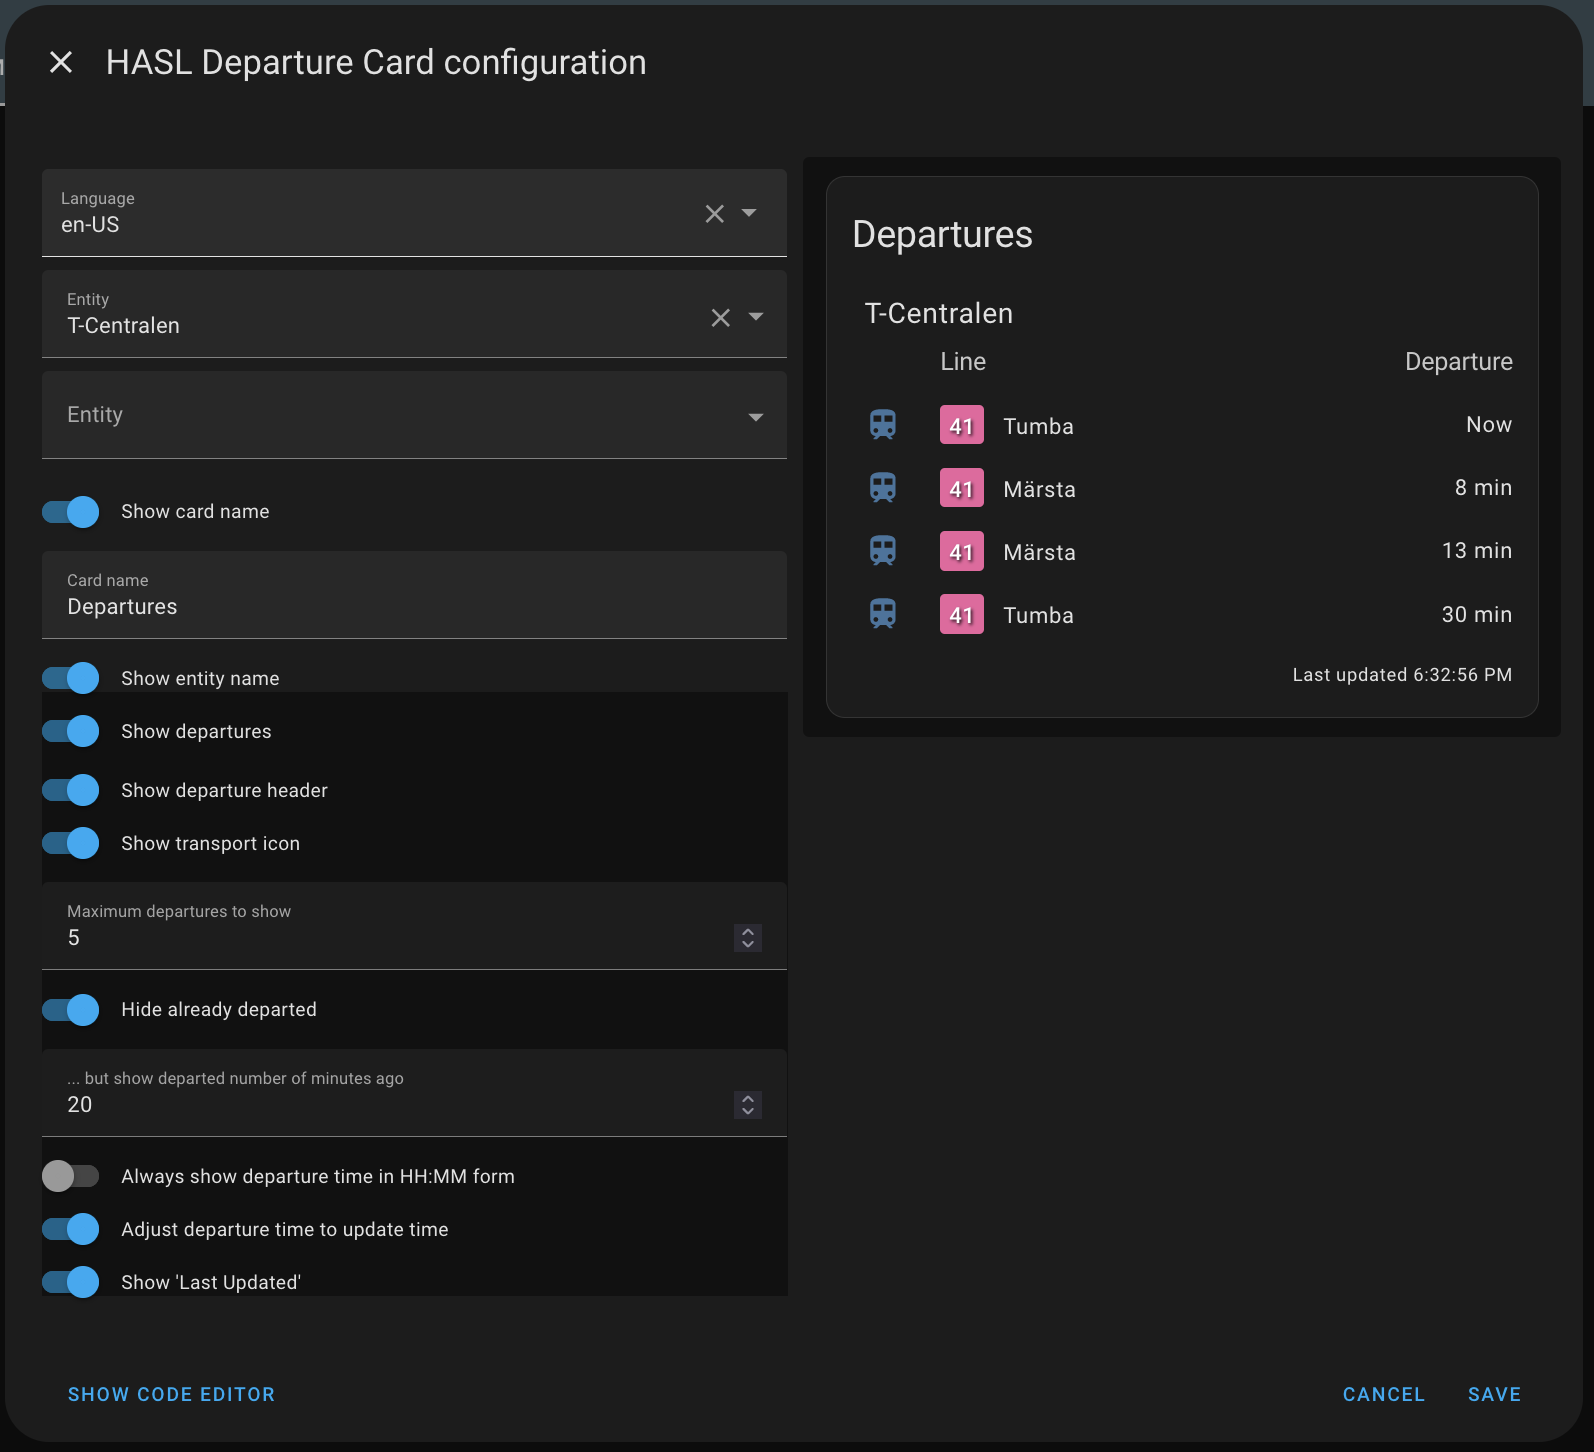
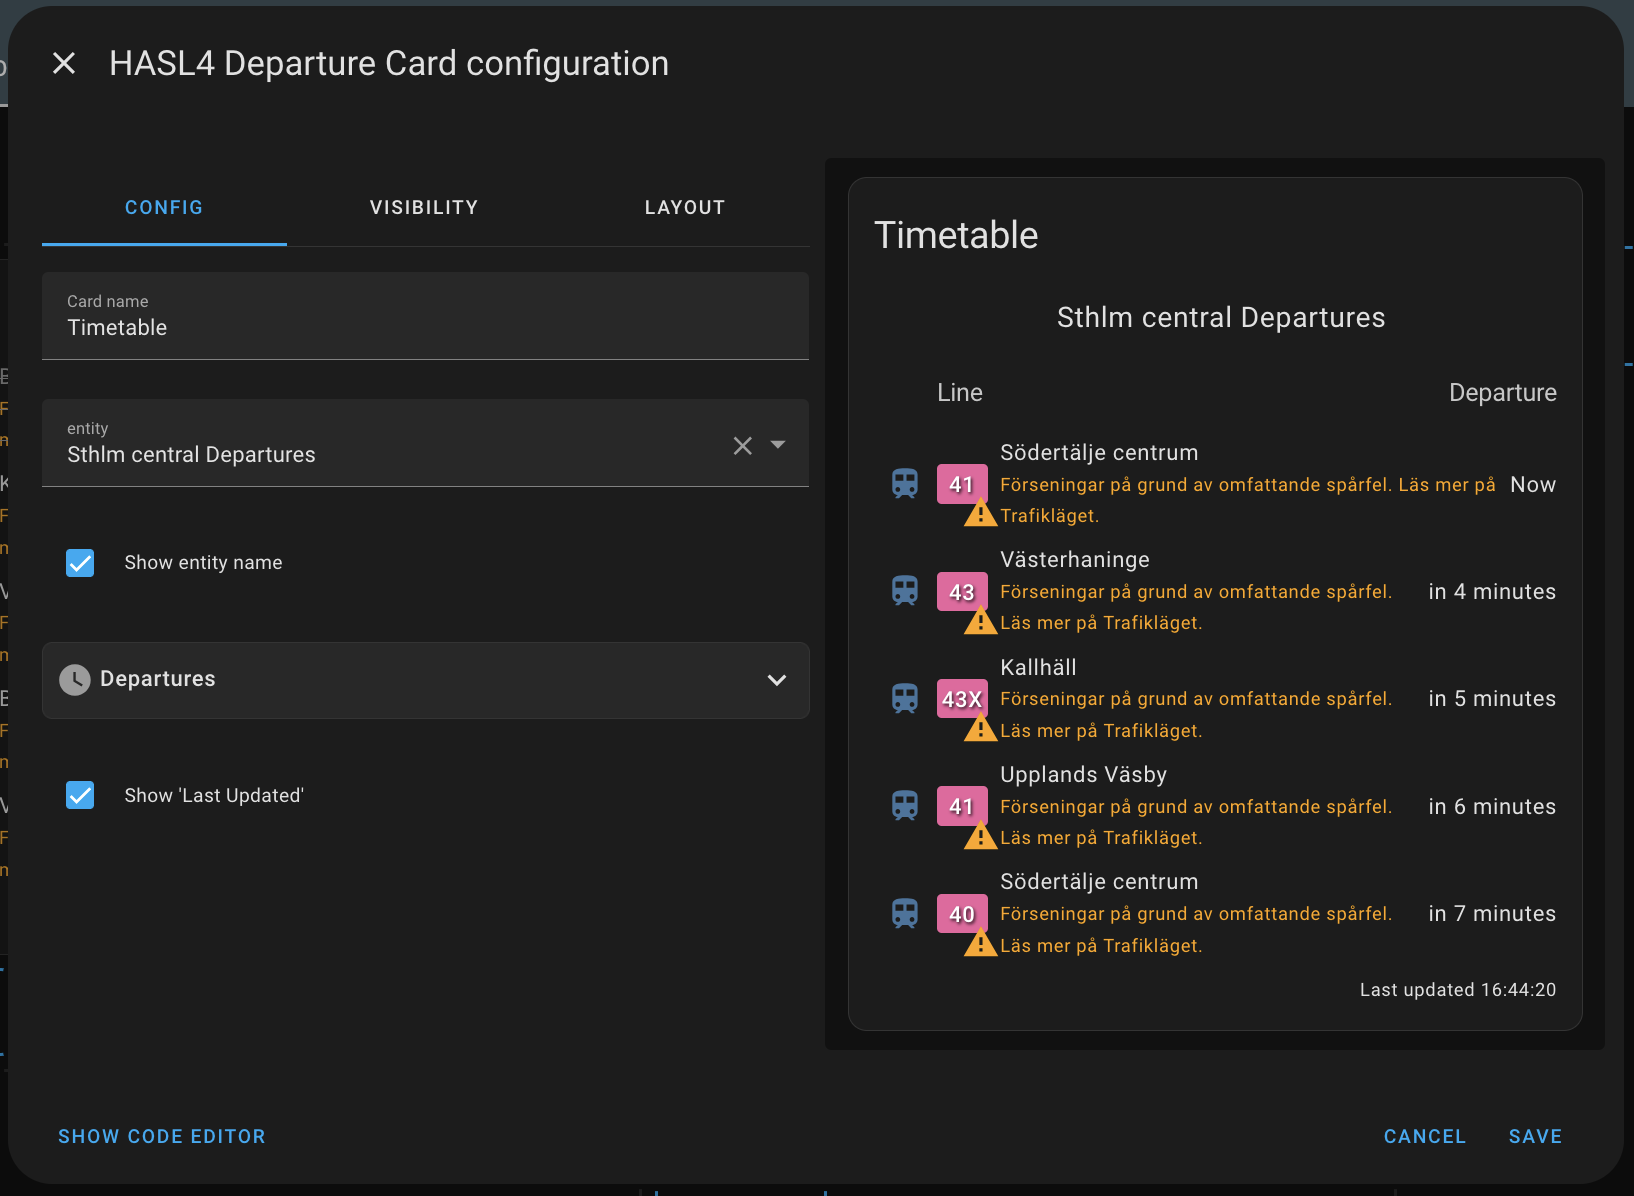
update readme
- new card images
- updated maintenance shield
- mention editor.*.js in manual installation
- refresh configuration table
- added buy me coffee link

diff --git a/readme.md b/readme.md
@@ -3,16 +3,18 @@
 [![hacs_badge](https://img.shields.io/badge/HACS-Default-orange.svg)](https://github.com/custom-components/hacs)
 [![ha_version](https://img.shields.io/badge/homeassistant-2024.1.0%2B-yellow.svg)](https://www.home-assistant.io)
 [![version](https://img.shields.io/badge/version-3.2.0b+-yellow.svg)](#)
-[![maintained](https://img.shields.io/maintenance/yes/2024.svg)](#)
+[![maintained](https://img.shields.io/maintenance/yes/2025.svg)](#)
 [![License](https://img.shields.io/badge/License-Apache%202.0-blue.svg)](https://opensource.org/licenses/Apache-2.0)
 
-Present departure times from HASL 4 Departure sensors
+Present departure times from HASL 3.2.0+ Departure sensors.
 
-![card](https://github.com/NecroKote/HA-hasl3-departure-card/assets/1721257/2a4208f1-9007-4888-b084-32468d734a3c)
+Now with deviations!
+
+![card](/images/dark-card.png)
 
 ## Manual Installation
 
-Copy [`hasl4-departure-card.js`](./dist/hasl4-departure-card.js) to `<config>/www/hasl4-departure-card.js`
+Copy [`hasl4-departure-card.js`](./dist/hasl4-departure-card.js) and any `editor.*.js` files to `<config>/www/hasl4-departure-card.js`
 
 Where `<config>` is your Home Assistant configuration directory.
 Then use the following in your `ui-lovelace.yaml` file:
@@ -23,7 +25,7 @@ resources:
     type: js
 ```
 
-### Basic setup
+## Basic setup
 
 In your lovelace dashboard, Edit Dashboard -> Add Card -> Search for 'HASL Departure Card'
 
@@ -31,27 +33,26 @@ In your lovelace dashboard, Edit Dashboard -> Add Card -> Search for 'HASL Depar
 
 Card fully supports configuration through the UI
 
-![card editor](https://github.com/NecroKote/HA-hasl3-departure-card/assets/1721257/9397ab6f-bd13-480e-b246-dde131ab3bc7)
+![card editor](/images/dark-card-editor.png)
 
 
 ### Options
-| Name                  | Type             | Required? | Description                                                                                                 |
-|-----------------------|------------------|-----------|-------------------------------------------------------------------------------------------------------------|
-| entities              | array            | required  | List of entities to show. 'Departure' sensor is advised.                                                    |
-| show_name             | bool             | optional  | Render card name.                                                                                           |
-| name                  | string           | optional  | If set, this will be rendered as the card name.                                                             |
-| show_entity_name      | bool             | optional  | Render an individual name for each entity section.                                                          |
-| show_header           | bool             | optional  | Render headers in each section such as "Line", "Destination" and "Departure".                               |
-| show_icon             | bool             | optional  | Render transport icon for each line.                                                                        |
-| show_departures       | bool             | optional  | Render departures section.                                                                                  |
-| max_departures        | number           | optional  | Max departures to show, default to all.                                                                     |
-| direction             | number           | optional  | Render departures only in said direction                                                                    |
-| hide_departed         | bool             | optional  | If set, will hide already departured vehicles.                                                              |
-| show_departed_offset  | bool             | optional  | If set, will show some departed vehicles, which departed less than the offset minutes ago.                  |
-| show_time_always      | bool             | optional  | Always present time in HH:MM form. If not set, time will be presented as "in X minutes" or "X minutes ago". |
-| show_updated          | bool             | optional  | Render the 'last updated' text                                                                              |
-| language              | string           | optional  | The texts will be rendered in this language. Can be one of `sv-SE`, `en-EN`, `fr-FR`.                       |
-| click_action          | string or object | optional  | Action when tapping the card. See section `click_action` below.                                             |
+| Name                 | Type             | Required? | Description                                                                                                 |
+|----------------------|------------------|-----------|-------------------------------------------------------------------------------------------------------------|
+| entity               | entity           | required  | The entity_id of the 'Departure' sensor.                                                                    |
+| title                | string           | optional  | If set, this will be rendered as the card name.                                                             |
+| show_entity_name     | bool             | optional  | Render an individual name for each entity section.                                                          |
+| show_header          | bool             | optional  | Render headers in each section such as "Line", "Destination" and "Departure".                               |
+| show_icon            | bool             | optional  | Render transport icon for each line.                                                                        |
+| show_departures      | bool             | optional  | Render departures section.                                                                                  |
+| max_departures       | number           | optional  | Max departures to show, default to all.                                                                     |
+| direction            | number           | optional  | Render departures only in said direction                                                                    |
+| hide_departed        | bool             | optional  | If set, will hide already departured vehicles.                                                              |
+| show_departed_offset | bool             | optional  | If set, will show some departed vehicles, which departed less than the offset minutes ago.                  |
+| show_time_always     | bool             | optional  | Always present time in HH:MM form. If not set, time will be presented as "in X minutes" or "X minutes ago". |
+| show_updated         | bool             | optional  | Render the 'last updated' text                                                                              |
+| language             | string           | optional  | The texts will be rendered in this language. Can be one of `sv-SE`, `en-EN`, `fr-FR`.                       |
+| click_action         | string or object | optional  | Action when tapping the card. See section `click_action` below.                                             |
 
 #### `click_action`
 
@@ -81,3 +82,6 @@ The `click_action` option can be used to specify what happens when the card is t
 ## Credits
 - Huge thanks to [@dimmanramone](https://github.com/dimmanramone) for pimping the card!
 - [@DSorlov](https://github.com/DSorlov) for his work on the original card
+
+### Support the developers
+- [@NecroKote](https://buymeacoffee.com/mkukhta) - maintainer
